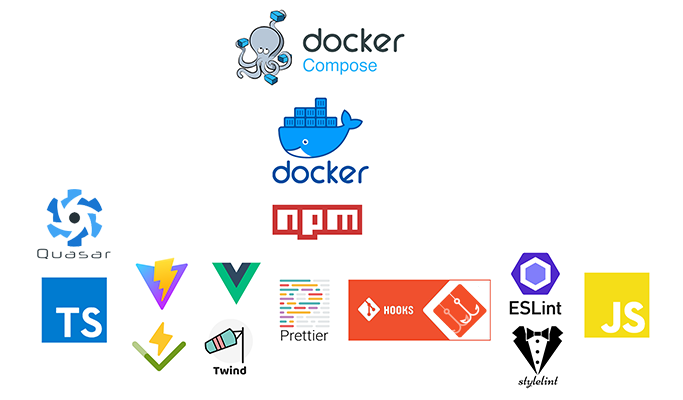
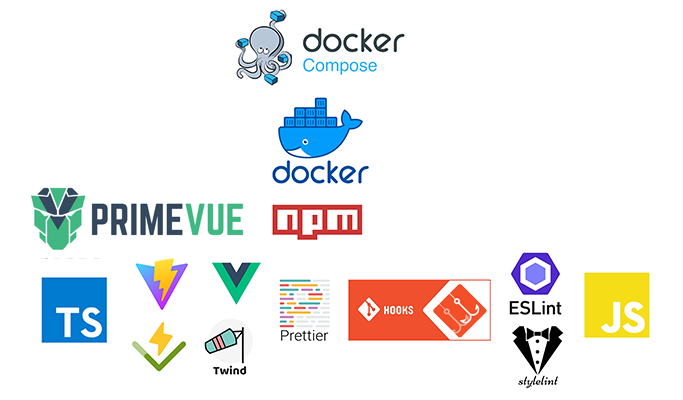
ed rdm

Changed region(s): [[0.0307, 0.45, 0.369, 0.66]]

diff --git a/README.md b/README.md
@@ -15,6 +15,10 @@
 
 - `npm run dev` (`http://localhost:4444`)
 
+### О проекте
+
+- Используется `primevue ui-kit` с кастомной темой `nano`
+
 ### Docker
 
 Docker использует nginx, поэтому если необходимо изменить порт который будет слушать Docker в nginx, то:
